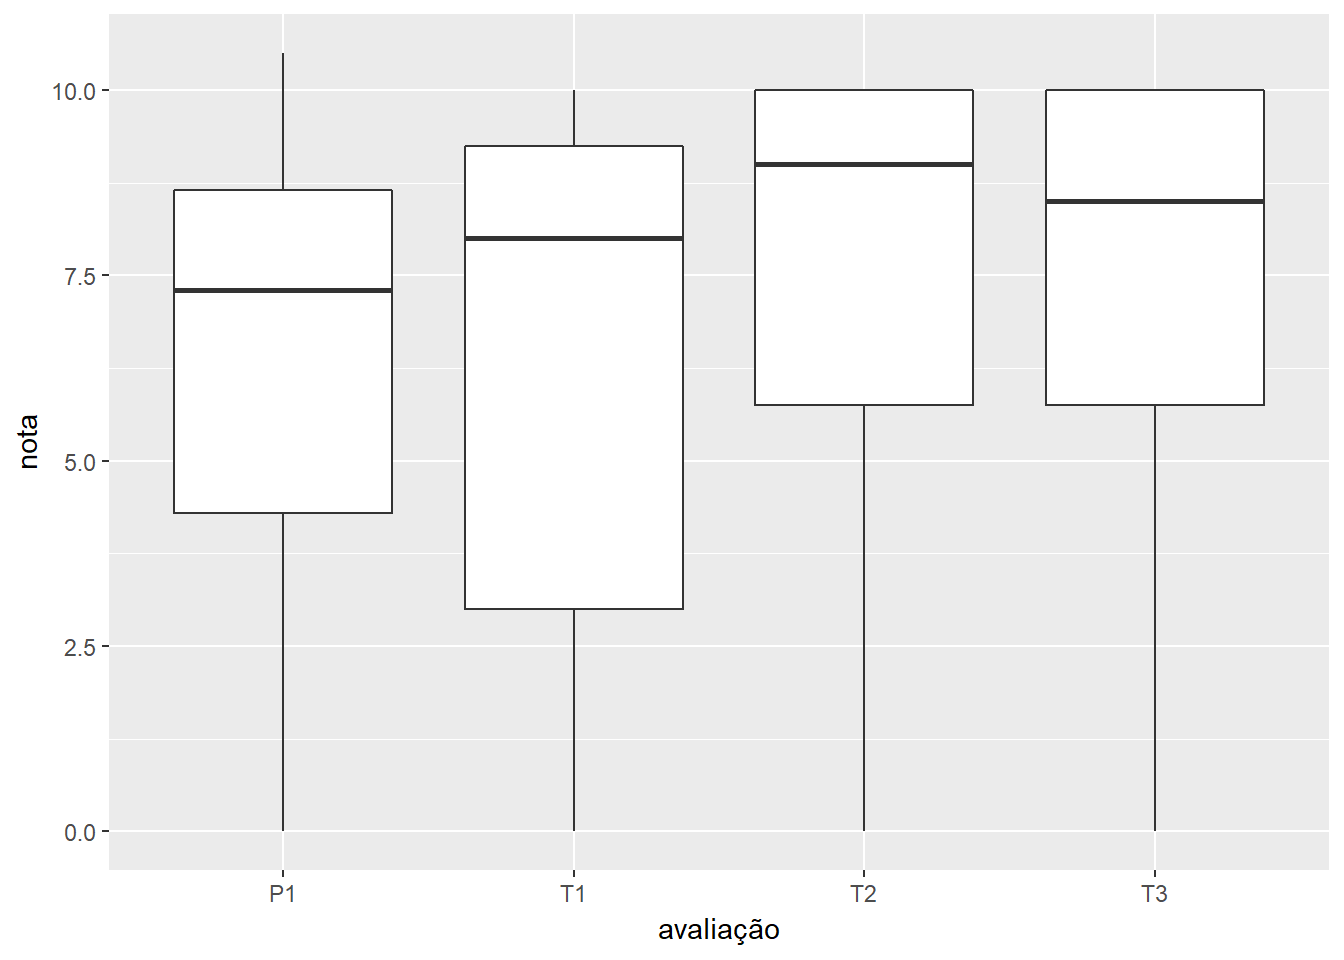
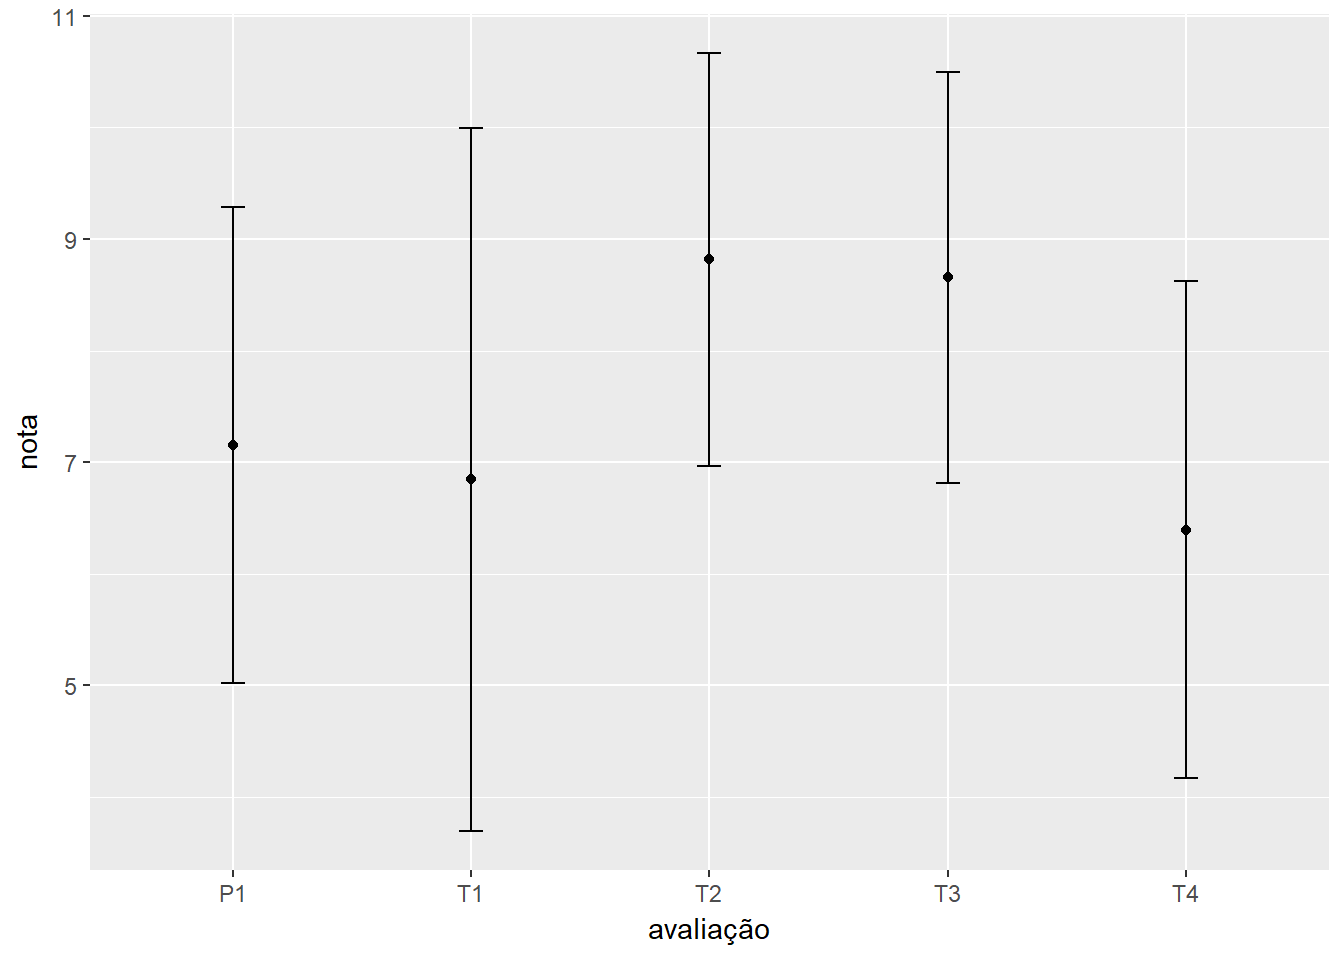
2018_2_prob_1: notas T4.

diff --git a/content/classes/2018_2_prob_1/grades.html b/content/classes/2018_2_prob_1/grades.html
@@ -23,7 +23,7 @@ subtitle: "2o semestre de 2018"
 <div id="notas-1" class="section level3">
 <h3>Notas</h3>
 <div id="htmlwidget-1" style="width:100%;height:auto;" class="datatables html-widget"></div>
-<script type="application/json" data-for="htmlwidget-1">{"x":{"filter":"none","data":[[530,560,1923,2449,2718,2728,2735,4149,4459,4843,4844,4851,4860,4861,4882,7653,7862,8172,8310,8549,8557,8584,8642,8655,8695,8897,8934],[2,7.5,9.5,8,9,9,9.5,10,0,1,2,2,8.5,7,2.5,7,1.5,9.5,9,10,9.5,5.5,8,8.5,8.5,10,3.5],[8,4.5,8,10,3.5,10,10,7,0,8,0,0,10,8,10,0,10,10,10,10,10,9,10,10,8,10,0],[4.8,4.3,7.5,7.5,8.8,9,8.5,7.3,0,4.3,4.3,0,8,4.3,6.5,0,3.5,7.5,5.8,8.5,9,9.3,10.5,10.5,5.8,9,0],[10,7.5,10,0,10,10,10,6.5,0,8.5,8,0,5,6.5,10,0,7.5,10,6.5,10,10,10,10,10,4.5,10,0]],"container":"<table class=\"display\">\n  <thead>\n    <tr>\n      <th>RA<\/th>\n      <th>T1<\/th>\n      <th>T2<\/th>\n      <th>P1<\/th>\n      <th>T3<\/th>\n    <\/tr>\n  <\/thead>\n<\/table>","options":{"dom":"ftip","columnDefs":[{"className":"dt-right","targets":[0,1,2,3,4]}],"order":[],"autoWidth":false,"orderClasses":false}},"evals":[],"jsHooks":[]}</script>
+<script type="application/json" data-for="htmlwidget-1">{"x":{"filter":"none","data":[[530,560,1923,2449,2718,2728,2735,4149,4459,4843,4844,4851,4860,4861,4882,7653,7862,8172,8310,8549,8557,8584,8642,8655,8695,8897,8934],[2,7.5,9.5,8,9,9,9.5,10,0,1,2,2,8.5,7,2.5,7,1.5,9.5,9,10,9.5,5.5,8,8.5,8.5,10,3.5],[8,4.5,8,10,3.5,10,10,7,0,8,0,0,10,8,10,0,10,10,10,10,10,9,10,10,8,10,0],[4.8,4.3,7.5,7.5,8.8,9,8.5,7.3,0,4.3,4.3,0,8,4.3,6.5,0,3.5,7.5,5.8,8.5,9,9.3,10.5,10.5,5.8,9,0],[10,7.5,10,0,10,10,10,6.5,0,8.5,8,0,5,6.5,10,0,7.5,10,6.5,10,10,10,10,10,4.5,10,0],[6,7.5,2,7.5,7.5,6,8,0,0,4,0,0,6.5,0,3.5,0,6,2,6,7,6,8,10,9,0,9,0]],"container":"<table class=\"display\">\n  <thead>\n    <tr>\n      <th>RA<\/th>\n      <th>T1<\/th>\n      <th>T2<\/th>\n      <th>P1<\/th>\n      <th>T3<\/th>\n      <th>T4<\/th>\n    <\/tr>\n  <\/thead>\n<\/table>","options":{"dom":"ftip","columnDefs":[{"className":"dt-right","targets":[0,1,2,3,4,5]}],"order":[],"autoWidth":false,"orderClasses":false}},"evals":[],"jsHooks":[]}</script>
 </div>
 <div id="graficos" class="section level3">
 <h3>Gráficos</h3>
